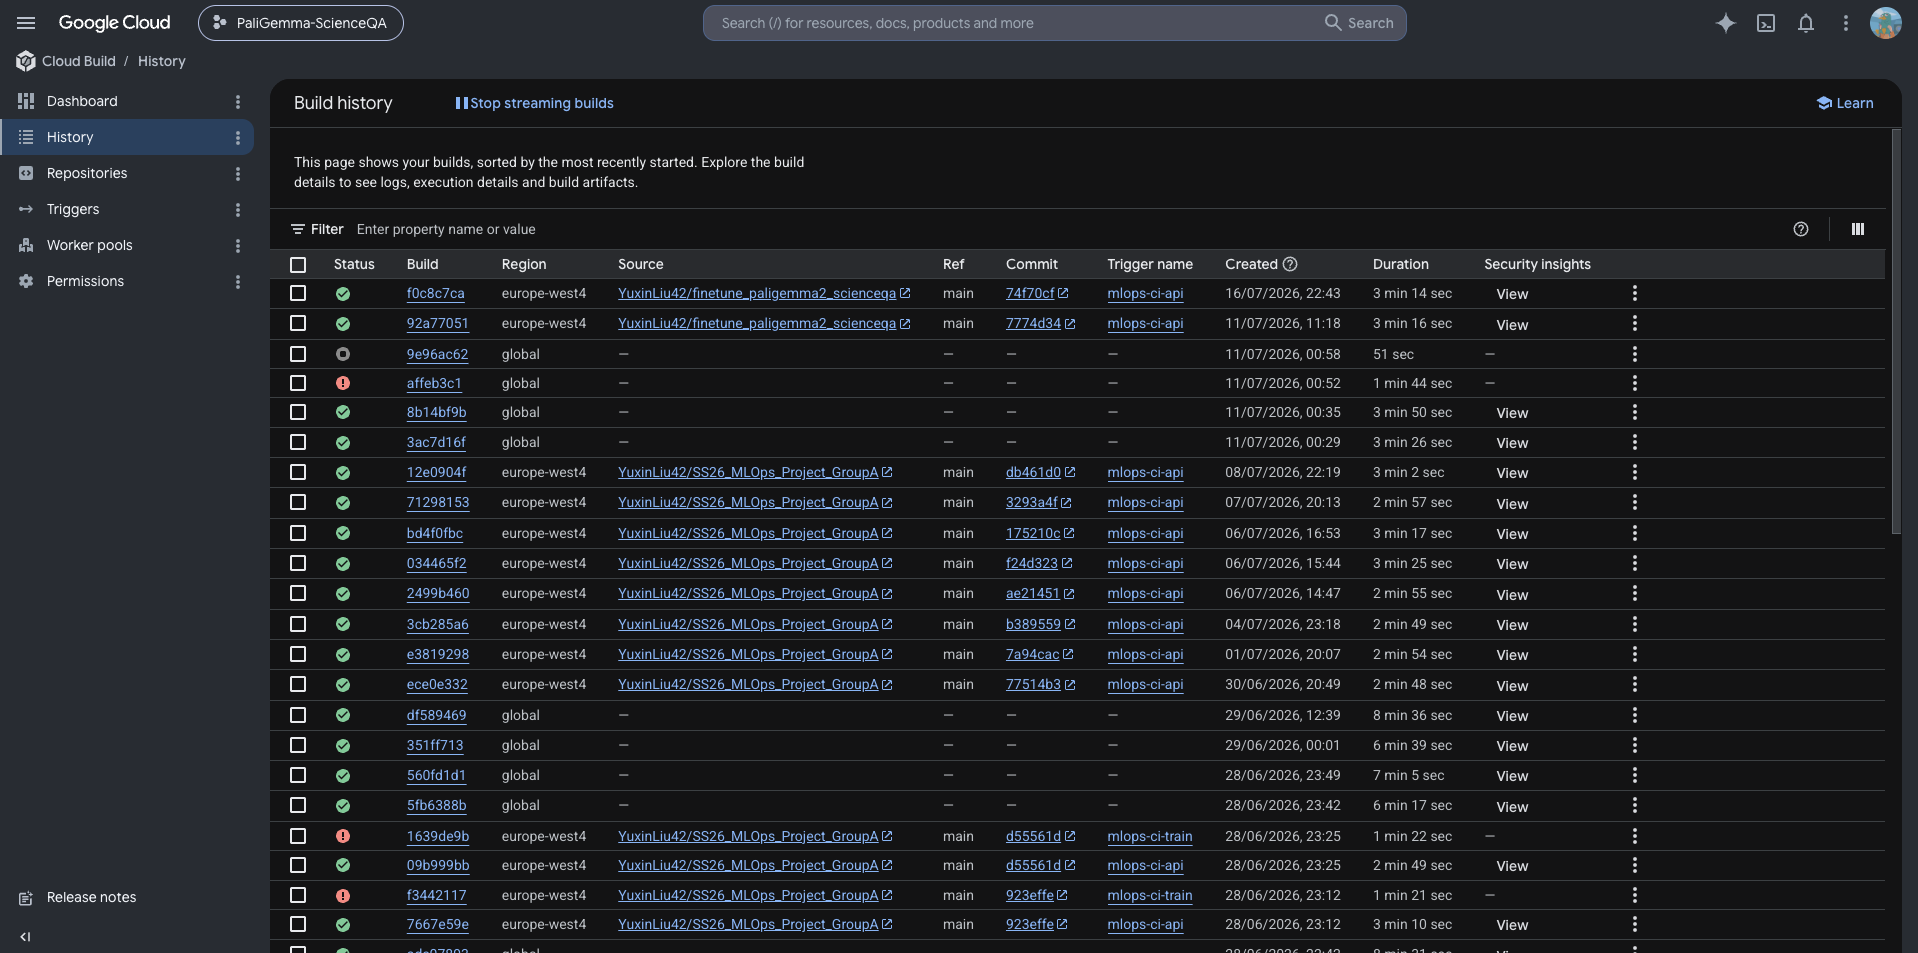
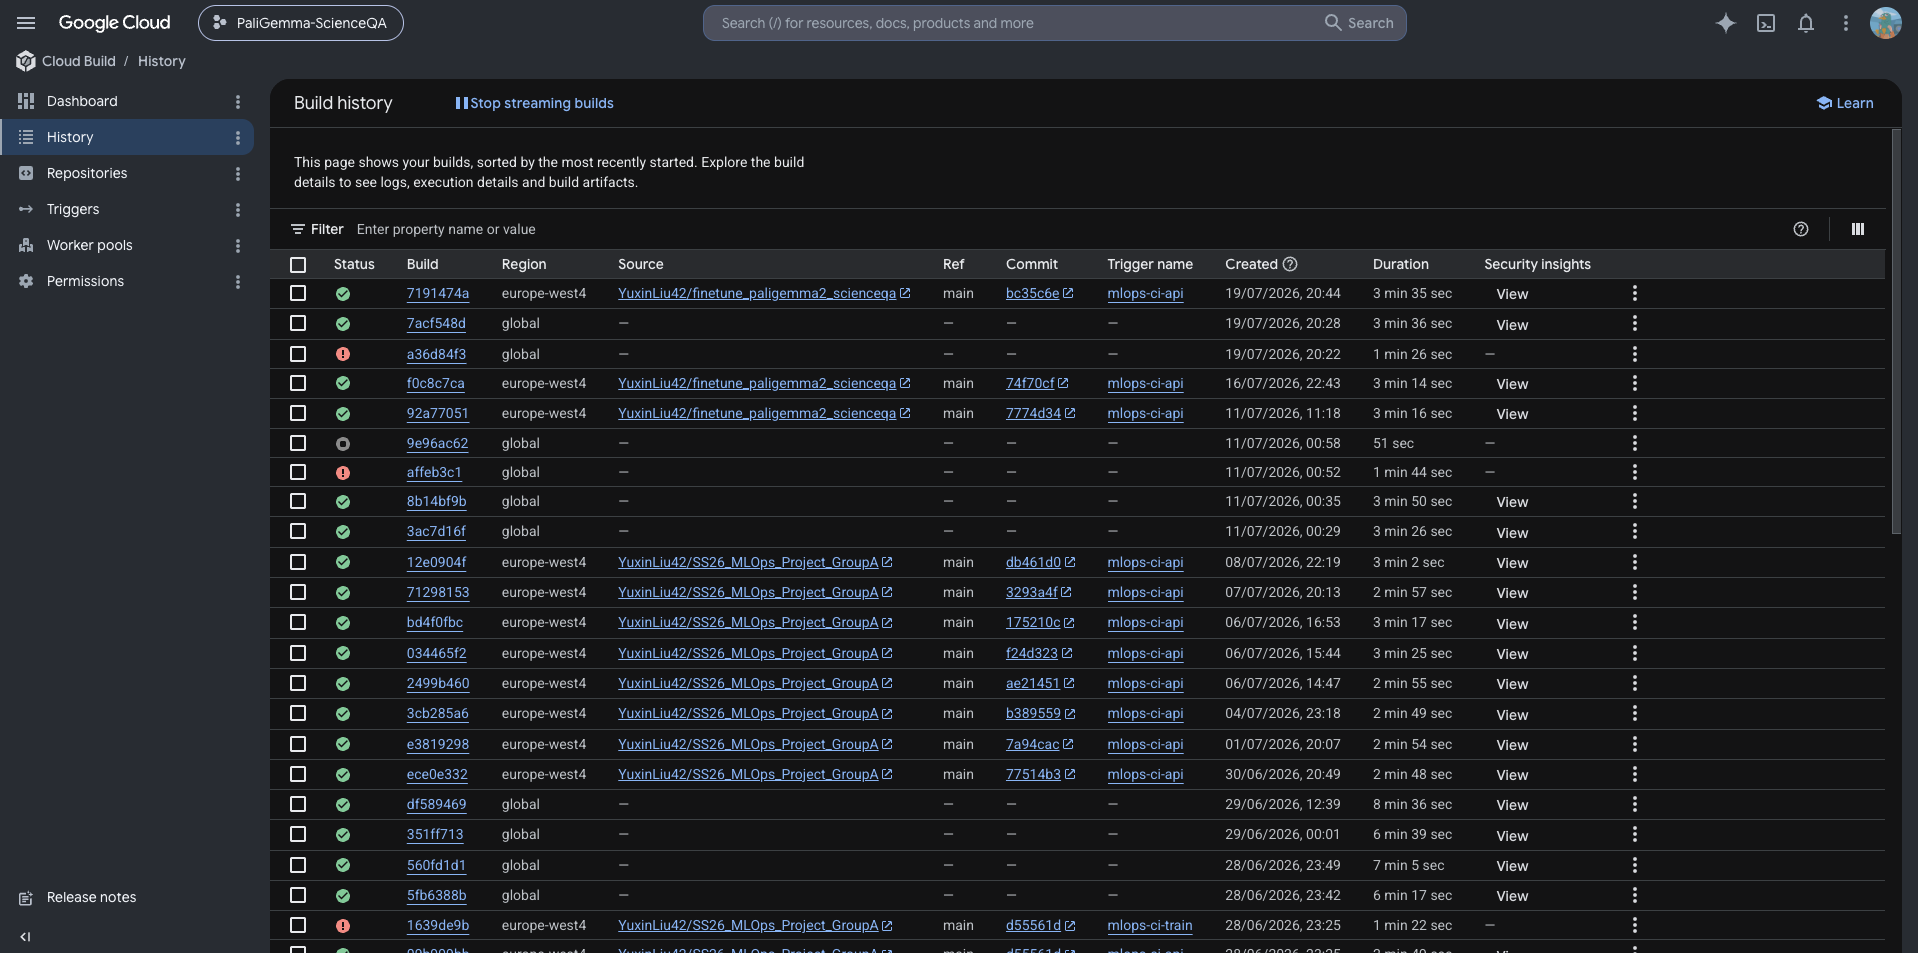
update figures from gcp

diff --git a/reports/report.html b/reports/report.html
@@ -481,8 +481,8 @@ docker run --rm -v "$(pwd)/checkpoints:/checkpoints" -v "$(pwd)/img.png:/img.png
 bugs, inspecting intermediate tensors and logs. Two concrete examples:
 (1) the training loss was stuck early in the project because of a stale
 <code>subjects</code>/<code>max_length</code> handling bug in the data pipeline; (2) a prompt that
-put the Hint/Lecture text <em>before</em> the answer Choices silently truncated the
-choices once the token limit was reached, which cost roughly <strong>16 points</strong> of
+put the Hint/Lecture text before the answer Choices silently truncated the
+choices once the token limit was reached, which cost roughly 16 points of
 test accuracy; we traced it by inspecting the actual tokenized prompts and
 fixed it by reordering <code>build_prompt</code>.</p>
 <p>We profiled in two ways: PyTorch Lightning's built-in profiler
@@ -587,7 +587,7 @@ to <code>main</code> that touches <code>src/scipali/**</code>; the train image's
 (<code>mlops-ci-train</code>) exists but is disabled, because that image needs a locally
 built wheel injected into the build context (see Question 15), so it is built
 manually rather than from a bare git checkout.</p>
-<p>The build history also shows several <strong>FAILURE</strong> builds, and these are
+<p>The build history also shows several failure builds, and these are
 intentional: a toolchain drift in the base image started to produce images
 that built successfully but could not import the application (we only
 noticed this when a Cloud Run deploy failed), so we added an import
@@ -689,11 +689,13 @@ live endpoint.</p>
 <em>our API could handle approximately 500 requests per second before the service crashed.</em></p>
 <p>Answer:</p>
 </blockquote>
-<p>Yes, both. <strong>Functional tests</strong>: 24 tests in <code>tests/test_api.py</code> call the
+<p>Yes, both.
+1. Functional tests: 24 tests in <code>tests/test_api.py</code> call the
 app through FastAPI's <code>TestClient</code> (the health contract, the <code>/predict</code> and
 <code>/predict-file</code> success paths and validation failures with 422 on malformed
 bodies, the drift endpoint, and the metrics instrumentation) and run in CI
-on every push across the 3 OS × 2 Python matrix. <strong>Load testing</strong>: locust against the
+on every push across the 3 OS × 2 Python matrix.
+2. Load testing: locust against the
 deployed service (<code>tests/load/locustfile.py</code>; the recorded run and its
 analysis are in <code>reports/load/</code>). Warm <code>/predict</code> showed p50 ≈ 10 s /
 p95 ≈ 27 s, and under concurrent users the initial deployment returned 429s
@@ -713,14 +715,17 @@ cold starts, which our 5xx alert caught and reported by email within minutes
 <em>measure ... and ... that would inform us about this ... behaviour of our application.</em></p>
 <p>Answer:</p>
 </blockquote>
-<p>Yes, three layers. <strong>Data drift</strong>: <code>monitoring.py</code> derives lightweight
+<p>Yes, three layers.
+1. Data drift: <code>monitoring.py</code> derives lightweight
 features per request (question length, number of choices, hint/lecture
 presence, image dimensions); <code>GET /monitor/drift</code> compares the training
 reference against production features collected from real <code>/predict</code> traffic
 via Cloud Logging (Evidently <code>DataDriftPreset</code>); this avoids the
 self-comparison problem of checking the reference against a held-out slice
-of the same dataset. <strong>System metrics</strong>: <code>prometheus-fastapi-instrumentator</code>
-exposes request counts/latency/sizes at <code>/metrics</code>. <strong>Alerting</strong>: a Cloud
+of the same dataset.
+2. System metrics: <code>prometheus-fastapi-instrumentator</code>
+exposes request counts/latency/sizes at <code>/metrics</code>.
+3. Alerting: a Cloud
 Monitoring policy fires on any 5xx within 5 minutes and emails a notification
 channel that we verified end-to-end (<code>verificationStatus: VERIFIED</code>) instead
 of assuming that delivery works. The alert has also fired in a real case:
@@ -749,9 +754,9 @@ Yuxin Liu accrued $50.15 (Compute Engine $33.25 + AI Platform Training
 $13.06, together the Vertex L4 training stack, since the GPU VMs are billed
 as Compute Engine SKUs, plus small build/registry/storage/serving charges)
 and closed in the middle of a running sweep; the project was then re-linked
-to a second account from Duc-Anh Valentino Nguyen, which accrued $29.47
-(Vertex + Compute $10.97, Artifact Registry $12.79, Cloud Run $3.56). The
-most expensive service was therefore the <strong>Vertex AI training stack</strong>
+to a second account from Duc-Anh Valentino Nguyen, which accrued $29.65
+(Vertex + Compute $10.97, Artifact Registry $12.87, Cloud Run $3.65). The
+most expensive service was therefore the Vertex AI training stack
 (≈ $57 of ≈ $80), consistent with 73 custom jobs and ~47 h of billed GPU
 runtime; the Flex-Start queue waiting time was not billed.</p>
 <p>In general, working in the cloud was positive: we trained on an L4 GPU
@@ -772,17 +777,17 @@ re-link command; a pipeline must simply be restartable at any point.</p>
 <em>implemented using ...</em></p>
 <p>Answer:</p>
 </blockquote>
-<p>Yes, several things that the questions above do not cover. <strong>An
-inference-optimization suite</strong>: a bf16 vs int4 vs <code>torch.compile</code> benchmark
+<p>Yes, several things that the questions above do not cover. An
+inference-optimization suite: a bf16 vs int4 vs <code>torch.compile</code> benchmark
 (int4 halves the GPU memory for a ~9 % latency cost), a global-magnitude
 pruning sweep over the full test split (graceful degradation up to ~30 %
 sparsity, collapse at 70 %), and a masked prune-finetune that recovers
 ~1 pt at 50 % sparsity, all run as Vertex jobs with the results in
-<code>reports/RESULTS.md</code>. <strong>Automated model rollout</strong>: moving the <code>production</code>
+<code>reports/RESULTS.md</code>. Automated model rollout: moving the <code>production</code>
 alias in the W&amp;B model registry fires a webhook, which triggers a
 <code>repository_dispatch</code> GitHub Actions workflow (keyless Workload Identity
 Federation) that rolls out a fresh Cloud Run revision and smoke-tests it; we
-verified this rollout live. <strong>A CI import guard</strong>, added after a real
+verified this rollout live. A CI import guard, added after a real
 incident: a base-image drift produced images that built successfully but
 could not import the application; Cloud Build now runs an import smoke test,
 so broken images fail in CI and are never pushed. We also added a two-mode
@@ -847,9 +852,9 @@ Federation rather than stored service-account keys).</p>
 <p>The single biggest accuracy bug was a prompt-ordering mistake: placing the
 optional Hint/Lecture text before the answer Choices meant the tokenizer's
 <code>max_length</code> sometimes truncated the choices themselves. This cost
-roughly <strong>16 points</strong> of test accuracy until it was diagnosed and fixed by
+roughly 16 points of test accuracy until it was diagnosed and fixed by
 reordering the prompt builder.</p>
-<p><strong>Vertex AI GPU availability</strong> cost us a lot of time: L4 quota and G2 machine
+<p>Vertex AI GPU availability cost us a lot of time: L4 quota and G2 machine
 availability only matched in <code>europe-west4</code> (another region had quota but no
 G2 machines at all), and Flex Start's default <code>maxWaitDuration</code> silently
 resulted in a 24-hour cutoff during stockouts unless it was explicitly
@@ -857,7 +862,7 @@ overridden. A GCP billing account also closed in the middle of a sweep, which
 killed several running trials; we treated the runs that W&amp;B marked as
 "failed" (but that actually completed) as valid, since their artifacts were
 intact.</p>
-<p><strong>The pruning sweep</strong> failed repeatedly on Vertex before it worked: capacity
+<p>The pruning sweep failed repeatedly on Vertex before it worked: capacity
 errors, a CUDA out-of-memory during pruning, a packaging bug that dropped
 subpackages from a wheel built inside the image (fixed by building the wheel
 outside the image and copying it in), and a host-RAM out-of-memory caused by
@@ -890,9 +895,9 @@ traced them back to the sync behaviour.</p>
 <em>We have used ChatGPT to help debug our code. Additionally, we used GitHub Copilot to help write some of our code.</em>
 Answer:</p>
 </blockquote>
-<p><strong>Duc-Anh Valentino Nguyen</strong> set up  the initial repository scaffold (the cookiecutter-based initial commit) and
+<p>Duc-Anh Valentino Nguyen set up  the initial repository scaffold (the cookiecutter-based initial commit) and
 early iterations of the project README (framework overview, team-member
-listing). <strong>Yuxin Liu</strong> implemented the data pipeline and the DVC setup, the
+listing). Yuxin Liu implemented the data pipeline and the DVC setup, the
 model/training code and Hydra configs, the Vertex AI training/sweep/
 evaluation/optimization jobs, the FastAPI serving app, the Streamlit frontend
 and the BentoML service, the CI/CD workflows (tests, linting, docs, and the

diff --git a/reports/README.md b/reports/README.md
@@ -908,8 +908,8 @@ Yuxin Liu accrued $50.15 (Compute Engine $33.25 + AI Platform Training
 $13.06, together the Vertex L4 training stack, since the GPU VMs are billed
 as Compute Engine SKUs, plus small build/registry/storage/serving charges)
 and closed in the middle of a running sweep; the project was then re-linked
-to a second account from Duc-Anh Valentino Nguyen, which accrued $29.47
-(Vertex + Compute $10.97, Artifact Registry $12.79, Cloud Run $3.56). The
+to a second account from Duc-Anh Valentino Nguyen, which accrued $29.65
+(Vertex + Compute $10.97, Artifact Registry $12.87, Cloud Run $3.65). The
 most expensive service was therefore the Vertex AI training stack
 (≈ $57 of ≈ $80), consistent with 73 custom jobs and ~47 h of billed GPU
 runtime; the Flex-Start queue waiting time was not billed.